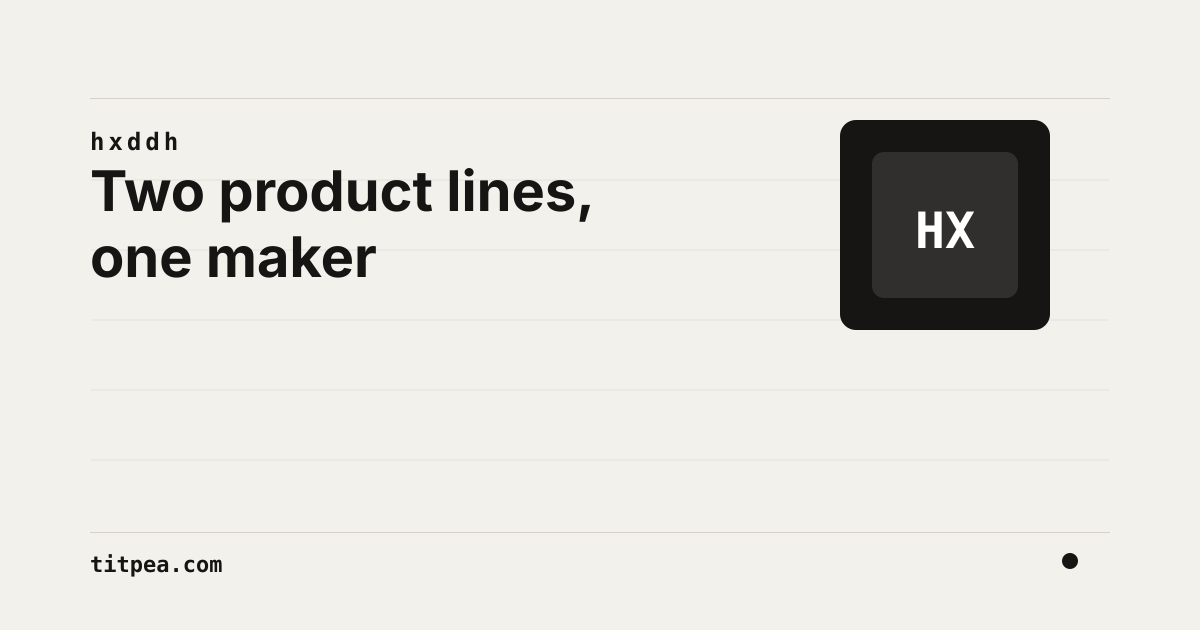
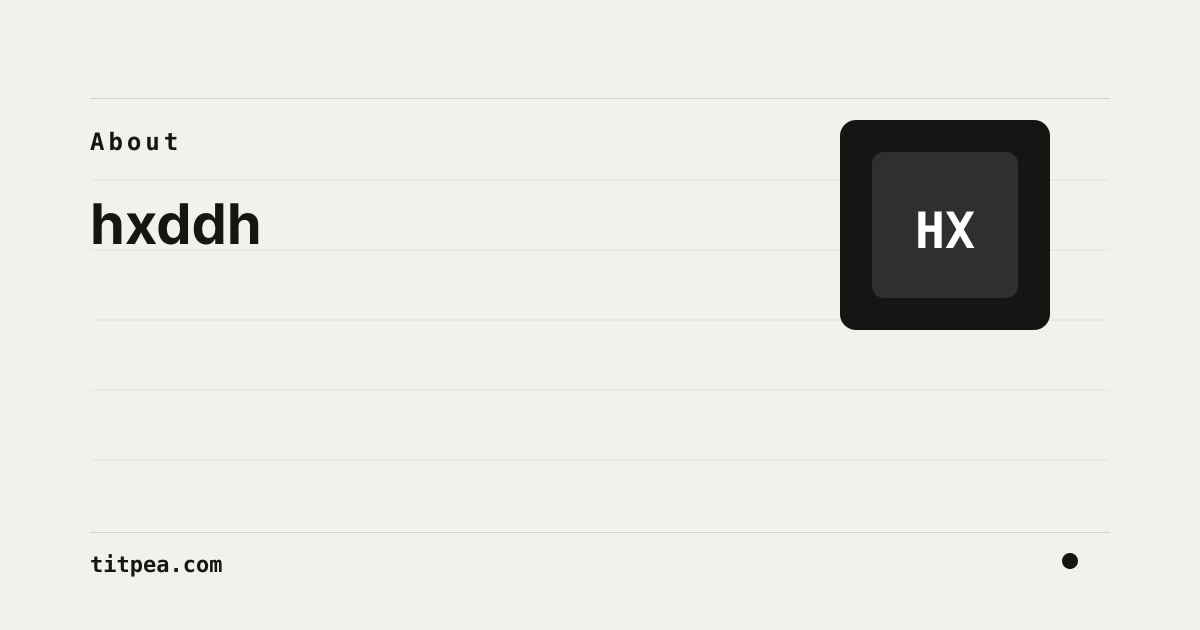
Make chrome and section titles match the print voice
Theme control is Dark/Light text like the language switch. Mid-page
headings stay in the featured h2 band so the product hero is the only
display size. Inside kickers name the product surface, and About OG
matches the page headline.

Changed region(s): [[0.0617, 0.2714, 0.4933, 0.4524], [0.0617, 0.2111, 0.1542, 0.2413]]

diff --git a/src/content/productInsideModels.ts b/src/content/productInsideModels.ts
@@ -3,9 +3,13 @@ import type { Locale, ProductSlug } from "../lib/site";
 
 type LocalizedText = Record<Locale, string>;
 
-const browserInside = (title: LocalizedText, body: LocalizedText): Record<Locale, ProductInsideModel> => ({
-  en: { id: "inside", kind: "inside", kicker: "A look inside", title: title.en, body: body.en },
-  zh: { id: "inside", kind: "inside", kicker: "看一眼", title: title.zh, body: body.zh },
+const productInside = (
+  kicker: LocalizedText,
+  title: LocalizedText,
+  body: LocalizedText,
+): Record<Locale, ProductInsideModel> => ({
+  en: { id: "inside", kind: "inside", kicker: kicker.en, title: title.en, body: body.en },
+  zh: { id: "inside", kind: "inside", kicker: kicker.zh, title: title.zh, body: body.zh },
 });
 
 export const productInsideModels: Partial<Record<ProductSlug, Record<Locale, ProductInsideModel>>> = {
@@ -13,7 +17,7 @@ export const productInsideModels: Partial<Record<ProductSlug, Record<Locale, Pro
     en: {
       id: "inside",
       kind: "inside",
-      kicker: "What it does",
+      kicker: "List and diff",
       title: "Answers for large buckets",
       body: "One CLI for the two questions that matter before a migration or investigation: what is here, and what changed?",
       panel: {
@@ -39,7 +43,7 @@ export const productInsideModels: Partial<Record<ProductSlug, Record<Locale, Pro
     zh: {
       id: "inside",
       kind: "inside",
-      kicker: "它解决什么",
+      kicker: "list 与 diff",
       title: "先回答大桶里的两个问题",
       body: "迁移、排查或盘点之前，先弄清两件事：桶里有什么，以及两端到底差了什么。",
       panel: {
@@ -94,7 +98,8 @@ export const productInsideModels: Partial<Record<ProductSlug, Record<Locale, Pro
       body: "Pi 是运行时；StorageOps 提供对象存储 skills、四个调查工具和辅助脚本。带上报错、日志、配置片段或 trace，Pi 就能根据这些材料排查，而不连接你的云账号。",
     },
   },
-  httpmon: browserInside(
+  httpmon: productInside(
+    { en: "Beside the command", zh: "就在命令旁边" },
     { en: "The command runs as before", zh: "命令照常运行，请求同时可见" },
     {
       en: "httpmon starts a local proxy for one subprocess. It supplies the proxy and CA through that process only, then clears the temporary setup when it exits.",
@@ -195,21 +200,24 @@ export const productInsideModels: Partial<Record<ProductSlug, Record<Locale, Pro
       body: "豆瓣电影评分助手只补充参考信息。匹配到影片后，它会把 IMDb、Rotten Tomatoes 和 Metacritic 放到豆瓣详情页，不打断原本的阅读。",
     },
   },
-  goban: browserInside(
+  goban: productInside(
+    { en: "On the board", zh: "棋盘上" },
     { en: "Play, inspect, and return to any move", zh: "对弈、查看，再回到任意一手" },
     {
       en: "The board keeps the current game, free/swap2/Renju rules, AI controls, 130 tactical drills, daily challenges, statistics, and SGF tools together in one desktop app.",
       zh: "当前棋局、自由式/swap2/连珠规则、AI 设置、130 道战术题、每日挑战、对局统计与 SGF 工具都集中在同一个桌面应用里。",
     },
   ),
-  chessboard: browserInside(
+  chessboard: productInside(
+    { en: "At the chessboard", zh: "在国际象棋棋盘上" },
     { en: "Learn, drill, then play and review", zh: "先学、做题，再对弈与复盘" },
     {
       en: "The board keeps a 72-lesson beginner course, mate drills, Stockfish controls, clocks, SAN move list, review curve, themes, and PGN tools together in one desktop app.",
       zh: "72 课零基础课程、杀型做题、Stockfish 设置、棋钟、SAN 着法列表、复盘曲线、主题与 PGN 工具都集中在同一个桌面应用里。",
     },
   ),
-  pulse: browserInside(
+  pulse: productInside(
+    { en: "Menu-bar lamp", zh: "菜单栏状态灯" },
     { en: "Status in the menu bar; sessions in the tray", zh: "菜单栏显示状态，托盘列出会话" },
     {
       en: "The menu bar shows Waiting, Running, Idle, or stalled. The tray lists sessions with observed facts; focus uses the best verified handle when one exists.",
@@ -248,7 +256,8 @@ export const productInsideModels: Partial<Record<ProductSlug, Record<Locale, Pro
       body: "World Machine 把语义状态留在运行时，经投影快照供给 GPUI。Pack 提供领域世界；内核保持通用，并明确处于 pre-alpha。",
     },
   },
-  "easier-bookmarks": browserInside(
+  "easier-bookmarks": productInside(
+    { en: "In the side panel", zh: "就在侧边栏里" },
     { en: "Your bookmark tree, without the menu maze", zh: "不用层层点菜单，也能看清书签树" },
     {
       en: "The side panel keeps folders, instant search, item actions, and drag or keyboard reordering available beside the page you are browsing.",

diff --git a/src/styles/product.css b/src/styles/product.css
@@ -16,8 +16,8 @@
 .screenshot-showcase-copy h2 {
   max-width: 18ch;
   margin: 0 0 18px;
-  font-size: clamp(2.05rem, 4vw, 2.75rem);
-  line-height: 1.04;
+  font-size: clamp(1.65rem, 3vw, 2.05rem);
+  line-height: 1.08;
 }
 
 .screenshot-showcase-copy p:not(.section-kicker) {
@@ -56,8 +56,8 @@
 
 .deep-dive-heading h2 {
   margin: 0;
-  font-size: clamp(2.05rem, 4vw, 2.75rem);
-  line-height: 1.04;
+  font-size: clamp(1.65rem, 3vw, 2.05rem);
+  line-height: 1.08;
 }
 
 .deep-dive-heading p:not(.section-kicker) {
@@ -256,8 +256,8 @@
 
 .s3-results-heading h2 {
   margin: 0;
-  font-size: clamp(2.05rem, 4vw, 2.75rem);
-  line-height: 1.04;
+  font-size: clamp(1.65rem, 3vw, 2.05rem);
+  line-height: 1.08;
 }
 
 .s3-results-heading p:not(.section-kicker) {
@@ -392,8 +392,8 @@
 #cases h2 {
   max-width: 22ch;
   margin: 0 0 18px;
-  font-size: clamp(2.2rem, 4.4vw, 3rem);
-  line-height: 1.04;
+  font-size: clamp(1.65rem, 3vw, 2.05rem);
+  line-height: 1.08;
 }
 
 .inside-copy p:not(.section-kicker) {
@@ -441,8 +441,8 @@
   cursor: pointer;
   list-style: none;
   color: var(--ink);
-  font-size: 20px;
-  font-weight: 650;
+  font-size: 18px;
+  font-weight: 600;
 }
 
 .faq-list summary::-webkit-details-marker {
@@ -486,5 +486,6 @@
 
 .final-cta h2 {
   margin: 0 0 26px;
-  font-size: clamp(2.15rem, 4.2vw, 3rem);
+  font-size: clamp(1.65rem, 3vw, 2.05rem);
+  line-height: 1.08;
 }

diff --git a/src/content/i18n/navCopy.ts b/src/content/i18n/navCopy.ts
@@ -8,6 +8,8 @@ export const headerCopy: Record<
     menuText: string;
     themeToDark: string;
     themeToLight: string;
+    themeDarkText: string;
+    themeLightText: string;
     groups: {
       main: string;
       storage: string;
@@ -37,6 +39,8 @@ export const headerCopy: Record<
     menuText: "Menu",
     themeToDark: "Switch to dark theme",
     themeToLight: "Switch to light theme",
+    themeDarkText: "Dark",
+    themeLightText: "Light",
     groups: {
       main: "Main",
       storage: "Storage",
@@ -65,6 +69,8 @@ export const headerCopy: Record<
     menuText: "菜单",
     themeToDark: "切换到深色主题",
     themeToLight: "切换到浅色主题",
+    themeDarkText: "深色",
+    themeLightText: "浅色",
     groups: {
       main: "主要页面",
       storage: "存储",

diff --git a/src/content/productResultsModels.ts b/src/content/productResultsModels.ts
@@ -5,7 +5,7 @@ export const s3ResultsModels: Record<Locale, ProductResultsModel> = {
   en: {
     id: "results",
     kind: "results",
-    kicker: "What remains",
+    kicker: "After the run",
     title: "List and diff leave different answers",
     body: "Both paths write results for downstream work. They are deliberately not the same operation.",
     paths: [
@@ -30,7 +30,7 @@ export const s3ResultsModels: Record<Locale, ProductResultsModel> = {
   zh: {
     id: "results",
     kind: "results",
-    kicker: "最后留下什么",
+    kicker: "跑完之后",
     title: "list 和 diff 给出不同的答案",
     body: "两条路径都会留下可继续处理的结果，但它们不是同一种操作。",
     paths: [

diff --git a/src/styles/components.css b/src/styles/components.css
@@ -77,30 +77,11 @@
 }
 
 .language-switch:hover,
-.language-switch:focus-visible {
-  border-bottom-color: var(--ink);
-  color: var(--ink);
-}
-
+.language-switch:focus-visible,
 .theme-toggle:hover,
 .theme-toggle:focus-visible {
+  border-bottom-color: var(--ink);
   color: var(--ink);
-}
-
-.theme-toggle {
-  padding: 10px 12px;
-}
-
-.theme-icon-light {
-  display: none;
-}
-
-.theme-toggle[aria-pressed="true"] .theme-icon-dark {
-  display: none;
-}
-
-.theme-toggle[aria-pressed="true"] .theme-icon-light {
-  display: inline;
 }
 
 .actions {

diff --git a/src/styles/responsive.css b/src/styles/responsive.css
@@ -235,7 +235,16 @@
 
   .home-evidence-heading h2,
   .browser-band-copy h2,
-  .about-section-heading h2 {
+  .about-section-heading h2,
+  .inside-copy h2,
+  .product-story h2,
+  #cases h2,
+  .screenshot-showcase-copy h2,
+  .deep-dive-heading h2,
+  .s3-results-heading h2,
+  .final-cta h2,
+  .benchmark-head h2,
+  .agent-manifest-head h2 {
     font-size: 1.45rem;
   }
 }

diff --git a/public/scripts/theme.js b/public/scripts/theme.js
@@ -51,6 +51,7 @@
     var dark = resolved() === "dark";
     button.setAttribute("aria-pressed", dark ? "true" : "false");
     button.setAttribute("aria-label", dark ? button.dataset.labelLight : button.dataset.labelDark);
+    button.textContent = dark ? button.dataset.textLight : button.dataset.textDark;
     button.hidden = false;
   }
 

diff --git a/src/styles/visuals.css b/src/styles/visuals.css
@@ -352,8 +352,8 @@
 .benchmark-head h2,
 .agent-manifest-head h2 {
   margin: 0;
-  font-size: clamp(1.75rem, 3.5vw, 2.3rem);
-  line-height: 1.1;
+  font-size: clamp(1.65rem, 3vw, 2.05rem);
+  line-height: 1.08;
 }
 
 .benchmark-head p:not(.section-kicker),

diff --git a/src/content/nav.ts b/src/content/nav.ts
@@ -11,6 +11,8 @@ export function headerUi(locale: Locale) {
     menuText: copy.menuText,
     themeToDark: copy.themeToDark,
     themeToLight: copy.themeToLight,
+    themeDarkText: copy.themeDarkText,
+    themeLightText: copy.themeLightText,
   };
 }
 

diff --git a/DESIGN.md b/DESIGN.md
@@ -37,7 +37,7 @@ Titpea is a concise personal product site. Its design should make each tool easi
 - Equal-weight product sections — fit and limits, features, and similar — are two-column hairline lists. Numbered workflows stay as step mosaics; charts, terminals, and the Pulse menu-bar visual keep the box that is the product. The mobile menu is a hairline list, not a 1px tile stack.
 - Hairlines should recede: borders use ink or white at low opacity, not a painted gray card frame. Real product screenshots sit on paper with no card fill, no radius, and no drop shadow. Charts, terminals, and CSS product mocks keep the box that is the product, but they sit on paper without a site drop shadow. Window-shaped mocks may keep a modest radius; site chrome, menus, mosaics, and figures are square.
 - Product and About hero actions — and the closing CTA — are typographic links with a 44px hit area, not filled capsules. Keep the `.button.primary` class so the href contract still resolves. Kickers and eyebrows are quiet sans bylines, not a second mono heading system.
-- The site wordmark is the word Titpea. Do not put a filled mark, app icon, or letter tile in the header. Navigation dropdowns and the mobile menu are hairline lists on paper, not floating rounded panels with tile hover states. Language and theme controls are text, not boxed icon buttons.
+- The site wordmark is the word Titpea. Do not put a filled mark, app icon, or letter tile in the header. Navigation dropdowns and the mobile menu are hairline lists on paper, not floating rounded panels with tile hover states. Language and theme controls are text, not boxed icon buttons. Theme reads `Dark` / `Light` (and `深色` / `浅色`), the same as the language switch. Section titles after the product hero stay in the featured `h2` band (`clamp(1.65rem, 3vw, 2.05rem)`); the product `h1` is the only display size on the page.
 - Proof chips are optional. When they appear, they are sans labels on paper, not bordered pills. Short product pages should omit them when the same facts already live in the hero, workflow, or FAQ. Workflow evidence tags are mono text, not chips.
 - Use color sparingly and semantically. Do not add gradients, glow, or decorative effects merely to create visual impact.
 - Site radius tokens are zero. Do not reintroduce iOS radii on chrome, mosaics, or photographs. Product-window mocks are the exception.
